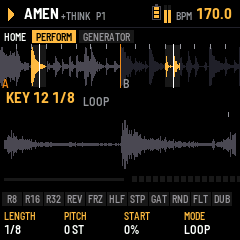
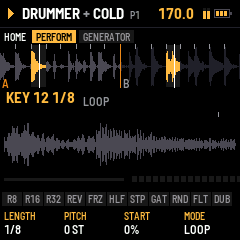
The header redone: A + B alike, the battery at the right edge, one band
A split's two breaks in the same face and colour ("AMEN + THINK"); long names shorten to
their first word, the BPM label giving way before a letter does. The right side from the
edge: the battery (lying down, centred), the level meter, the tempo. Everything sits on
FONT_B's cap band (rows 8..18): the play mark, the battery, the meter (now 11 rows), the
small labels on its baseline.

154 of 154 engine checks, every scenario, sr_audit clean; image 549,644 B.

Claude-Session: https://claude.ai/code/session_01YWuRNsqx2jn29SjM4TGVKN

diff --git a/app/ui/screen.c b/app/ui/screen.c
@@ -336,48 +336,72 @@ static void intro_end(void)
     ui.redraw = RG_ALL;
 }
 
-/* the battery, next to the header's level meter (plat_battery): three bars from the foot, red at one or none, a USB
- * host powering the FM-1 shows a bolt instead. 9 wide, rows 4..20 (the header's canvas); -1 (not read yet): nothing */
-#define BATT_W 9                         /* the body's width (the nub 3 wide on top of it) */
+/* The header (28 rows, a line under it). Everything sits on one band: FONT_B's capitals fill rows 8..18 (its
+ * baseline 18), FONT_T drawn at y 9 shares that baseline, and the play mark, the battery and the meter fill the same
+ * rows. Left: the play mark, the break (a split: A + B, both alike), the pattern, REC. Right, from the edge: the
+ * battery, the level meter, the tempo and BPM. */
+#define HD_TOP 8                         /* the band: rows 8..18 */
+#define HD_H 11
+#define HD_BATT_X 214                    /* the battery: body 16 wide, its nub 2 more (to x 231: 8 from the edge) */
+#define HD_METER_X 202                   /* the meter: 8 wide, 4 left of the battery */
+#define HD_TEMPO_R 194                   /* the tempo ends here, 8 left of the meter */
+
+/* the battery (plat_battery), lying down: three bars from the left, red at one or none; a USB host powering the
+ * FM-1 shows a bolt instead; -1 (not read yet): its outline only, so nothing moves when it is */
 #define BATT_LOW RGB(255, 104, 72)       /* one bar or none: red */
 static void draw_batt(int32_t x, int b)
 {
     uint16_t c = b >= 0 && b <= 1 ? BATT_LOW : C_DIM;
-    int32_t i;
-    if (b < 0)
-        return;                          /* not read yet (the keys own the converter: APP_KEY_SENSE) */
-    cv_rect(x + 3, 4, 3, 2, c);           /* the nub */
-    cv_rect(x, 6, BATT_W, 14, c);         /* the body's frame */
-    cv_rect(x + 1, 7, BATT_W - 2, 12, C_BLACK);
+    int32_t i, y = HD_TOP + 1;           /* the body: rows 9..17, centred on the band */
+    cv_rect(x, y, 16, 9, c);             /* the frame */
+    cv_rect(x + 1, y + 1, 14, 7, C_BLACK);
+    cv_rect(x + 16, y + 3, 2, 3, c);     /* the nub */
     if (b == 4) {                        /* a USB host powers the FM-1: a bolt */
-        cv_line(x + 5, 7, x + 2, 12, C_HI);
-        cv_line(x + 2, 12, x + 6, 12, C_HI);
-        cv_line(x + 6, 12, x + 3, 18, C_HI);
+        cv_line(x + 9, y + 1, x + 5, y + 4, C_HI);
+        cv_line(x + 5, y + 4, x + 10, y + 4, C_HI);
+        cv_line(x + 10, y + 4, x + 6, y + 7, C_HI);
         return;
     }
-    for (i = 0; i < b && i < 3; i++)      /* the bars from the foot up */
-        cv_rect(x + 2, 15 - i * 4, BATT_W - 4, 3, b <= 1 ? BATT_LOW : C_HI);
+    for (i = 0; i < b && i < 3; i++)     /* the bars from the left */
+        cv_rect(x + 2 + i * 4, y + 2, 3, 5, b <= 1 ? BATT_LOW : C_HI);
 }
 
-/* the header's level meter: what leaves, left and right, -48..0 dBFS in 18 steps of 2.7 dB; amber from -8 dB, the
- * top white near full scale */
+/* the header's level meter: what leaves, left and right, -48..0 dBFS in 18 steps of 2.7 dB shown on the band's 11
+ * rows; amber from -8 dB, the top white near full scale */
 static void draw_meter(void)
 {
     float lv[2];
     uint32_t c;
-    int32_t h;
+    int32_t h, px;
     lv[0] = meter_l;
     lv[1] = meter_r;
-    cv_begin(8, 20, C_BLACK);
+    cv_begin(8, HD_H, C_BLACK);
     for (c = 0; c < 2u; c++) {
         for (h = 0; h < 18; h++)         /* the steps it is above: -48 dB + 2.67 dB each (2^(dB / 6.02)) */
             if (lv[c] < brk_exp2f(((float)h * (48.0f / 18.0f) - 48.0f) * (1.0f / 6.0206f)))
                 break;
-        cv_rect((int32_t)c * 4, 1, 3, 18, C_BLOCK);
-        if (h)
-            cv_rect((int32_t)c * 4, 19 - h, 3, h, h >= 18 ? C_WHITE : h >= 15 ? C_AMB : C_HI);
+        px = (h * HD_H + 17) / 18;
+        cv_rect((int32_t)c * 4 + 1, 0, 3, HD_H, C_BLOCK);
+        if (px)
+            cv_rect((int32_t)c * 4 + 1, HD_H - px, 3, px, h >= 18 ? C_WHITE : h >= 15 ? C_AMB : C_HI);
     }
-    cv_blit(ui.meter_x, 4);
+    cv_blit(ui.meter_x, HD_TOP);
+}
+
+/* name into t (the break's on-screen name), cut to its first word (word) and to at most w pixels of FONT_B */
+static void head_name(char *t, uint32_t brk, int word, int32_t w)
+{
+    uint32_t k = 0u;
+    t[0] = 0;
+    text_cat(t, break_name(brk));
+    if (word)
+        while (t[k] && t[k] != ' ')
+            k++;
+    else
+        k = 12u;
+    t[k] = 0;
+    while (k > 1u && text_w(&FONT_B, t) > w)
+        t[--k] = 0;
 }
 
 /* the header: the break and the tempo, a play / stop mark; or a message for a moment */
@@ -390,42 +414,72 @@ static void draw_head(const brk_status_t *st, const brk_break_t *b, uint32_t now
         int32_t x = cv_text(8, 6, &FONT_B, ui.msg[0], C_WHITE);
         cv_text(x + 8, 6, &FONT_B, ui.msg[1], C_HI);
     } else {
-        if (st->playing) {               /* a play triangle, or a stop square */
+        int32_t tx, lx, x, room, tail, wl, k;
+        char pat[8], a[16], c[16];
+        uint32_t bb = split_b_of(set.brk);
+        int lab = 1, ext = ext_active();
+        /* the right: the battery at the edge, the meter, the tempo */
+        draw_batt(HD_BATT_X, plat_battery());
+        ui.meter_x = HD_METER_X;
+        tenths_text(set.tempo_x10, t);
+        tx = HD_TEMPO_R - text_w(&FONT_B, t);
+        cv_text(tx, 6, &FONT_B, t, C_HI);
+        wl = 3 + text_w(&FONT_T, ext ? "EXT" : "BPM");
+        /* the left: a play triangle, or a stop square */
+        if (st->playing) {
             int32_t r;
             for (r = 0; r < 6; r++)
-                cv_rect(8 + r, 8 + r, 1, 13 - 2 * r, C_HI);
+                cv_rect(8 + r, HD_TOP + r, 1, HD_H - 2 * r, C_HI);
         } else
-            cv_rect(8, 9, 10, 10, C_DIM);
-        {                                /* the break, the pattern (> one queued), REC */
-            int32_t x = cv_text(24, 6, &FONT_B, b ? break_name(set.brk) : "NO BREAK",   /* (amber: still to come) */
-                                brk_next >= 0 ? C_AMB : C_WHITE);
-            if (b && set.split) {        /* the split: + break B, small */
-                char sb[16];
-                sb[0] = '+';
-                sb[1] = 0;
-                text_cat(sb, break_name(split_b_of(set.brk)));
-                if (text_w(&FONT_T, sb) > 60) {   /* (its first word, if long) */
-                    uint32_t k = 1u;
-                    while (sb[k] && sb[k] != ' ')
-                        k++;
-                    sb[k] = 0;
-                }
-                x = cv_text(x + 2, 10, &FONT_T, sb, b->split && brk_next < 0 ? C_GRAY : C_AMB);
+            cv_rect(8, HD_TOP + 1, 9, 9, C_DIM);
+        /* the break (a split: A + B, alike), then the pattern (> one queued) and REC. The name gets the room left:
+         * whole names, else first words, BPM's label given up before a letter is (EXT's never) */
+        pat[0] = 'P';
+        int_text((int32_t)set.pattern + 1, pat + 1);
+        if (pat_next >= 0)
+            text_cat(pat, ">");
+        tail = 6 + text_w(&FONT_T, pat) + (ui.rec ? 4 + text_w(&FONT_T, "REC") : 0);
+        room = tx - 8 - 22 - tail;       /* (without the label) */
+        c[0] = 0;
+        for (k = 0; k < 4; k++) {        /* 0 whole + label, 1 whole, 2 first words + label, 3 first words */
+            int32_t w;
+            head_name(a, set.brk, k >= 2, 999);
+            w = text_w(&FONT_B, a);
+            if (set.split) {
+                head_name(c, bb, k >= 2, 999);
+                w += text_w(&FONT_B, " + ") + text_w(&FONT_B, c);
             }
-            t[0] = 'P';
-            int_text((int32_t)set.pattern + 1, t + 1);
-            if (pat_next >= 0)
-                text_cat(t, ">");
-            x = cv_text(x + 6, 10, &FONT_T, t, pat_next >= 0 ? C_AMB : C_GRAY);
-            if (ui.rec)
-                cv_text(x + 5, 10, &FONT_T, "REC", C_AMB);
+            lab = !(k & 1) || ext;
+            if (w <= room - (lab ? wl : 0))
+                break;
         }
-        tenths_text(set.tempo_x10, t);
-        cv_text(232 - text_w(&FONT_B, t), 6, &FONT_B, t, C_HI);
-        ui.meter_x = (int16_t)(228 - text_w(&FONT_B, t) - text_w(&FONT_T, "BPM") - 12);   /* left of BPM */
-        cv_text(228 - text_w(&FONT_B, t) - text_w(&FONT_T, ext_active() ? "EXT" : "BPM"), 10, &FONT_T,
-                ext_active() ? "EXT" : "BPM", ext_active() ? C_AMB : C_GRAY);
-        draw_batt(ui.meter_x - 12, plat_battery());        /* the battery, left of the level meter */
+        if (k == 4) {                    /* still too long: each its share, cut */
+            int32_t r = room - (ext ? wl : 0), plus = text_w(&FONT_B, " + ");
+            lab = ext;
+            if (set.split) {
+                int32_t half = (r - plus) / 2, wa = text_w(&FONT_B, a), wc = text_w(&FONT_B, c);
+                head_name(a, set.brk, 1, wa <= half ? wa : wc <= half ? r - plus - wc : half);
+                head_name(c, bb, 1, r - plus - text_w(&FONT_B, a));
+            } else
+                head_name(a, set.brk, 1, r);
+        }
+        if (lab) {
+            lx = tx - wl;
+            cv_text(lx, 9, &FONT_T, ext ? "EXT" : "BPM", ext ? C_AMB : C_GRAY);
+        }
+        x = 22;
+        if (!b)
+            x = cv_text(x, 6, &FONT_B, "NO BREAK", C_WHITE);
+        else {
+            x = cv_text(x, 6, &FONT_B, a, brk_next >= 0 ? C_AMB : C_WHITE);   /* (amber: still to come) */
+            if (set.split) {
+                x = cv_text(x, 6, &FONT_B, " + ", C_GRAY);
+                x = cv_text(x, 6, &FONT_B, c, brk_next >= 0 || !b->split ? C_AMB : C_WHITE);
+            }
+        }
+        x = cv_text(x + 6, 9, &FONT_T, pat, pat_next >= 0 ? C_AMB : C_GRAY);
+        if (ui.rec)
+            cv_text(x + 4, 9, &FONT_T, "REC", C_AMB);
     }
     cv_rect(0, 27, 240, 1, C_LINE);
     cv_blit(0, 0);

diff --git a/app/docs/MANUAL.md b/app/docs/MANUAL.md
@@ -46,10 +46,11 @@ seconds, or at once on any key, the **slicer view** opens. PLAY on the start scr
 
 The slicer view, top to bottom:
 
-- **Header:** play or stop, the break's name, the pattern (P1–P16; "P2>" while P2 waits for the loop's end), REC
-  while recording, a level meter (left and right, what leaves after MASTER: amber from
-  −8 dB, white near full scale), the battery (three bars, red at one or none; a bolt
-  while a USB host powers the FM-1), the tempo.
+- **Header:** on the left, play or stop, the break's name (a split: both, "AMEN + THINK", alike; long names
+  shorten to their first word), the pattern (P1–P16; "P2>" while P2 waits for the loop's end), REC while
+  recording. On the right, from the edge: the battery (three bars, red at one or none; a bolt while a USB host
+  powers the FM-1), a level meter (left and right, what leaves after MASTER: amber from −8 dB, white near full
+  scale), the tempo (BPM, or EXT while an outside clock leads; BPM's label makes way when the names need the room).
 - **Tabs:** the button you pressed (as printed on the panel), then the page's parts as tabs, the one you are on lit:
   the button again (or ALGORITHM) goes to the next. On EDIT and FX the part edited shows at the right, "< SUB FX >".
   Opening a page, or turning to another part, says the same in the header for a moment: the button, then the part
@@ -472,7 +473,7 @@ is repitched to the length of A's, as an old sampler would, so the two stay in t
 
 | Knob | Sets | |
 | --- | --- | --- |
-| K1 SPLIT | OFF · ON | On, the break becomes the two at the next bar (stopped, at once); the header shows A's name with "+B" beside it |
+| K1 SPLIT | OFF · ON | On, the break becomes the two at the next bar (stopped, at once); the header shows both, "AMEN + THINK" |
 | K2 BREAK B | Any break | The break in bar 2 (at first, the one after A) |
 | K3 BAR A | BAR 1 · BAR 2 | Which of A's two bars plays |
 | K4 BAR B | BAR 1 · BAR 2 | Which of B's two bars plays |
